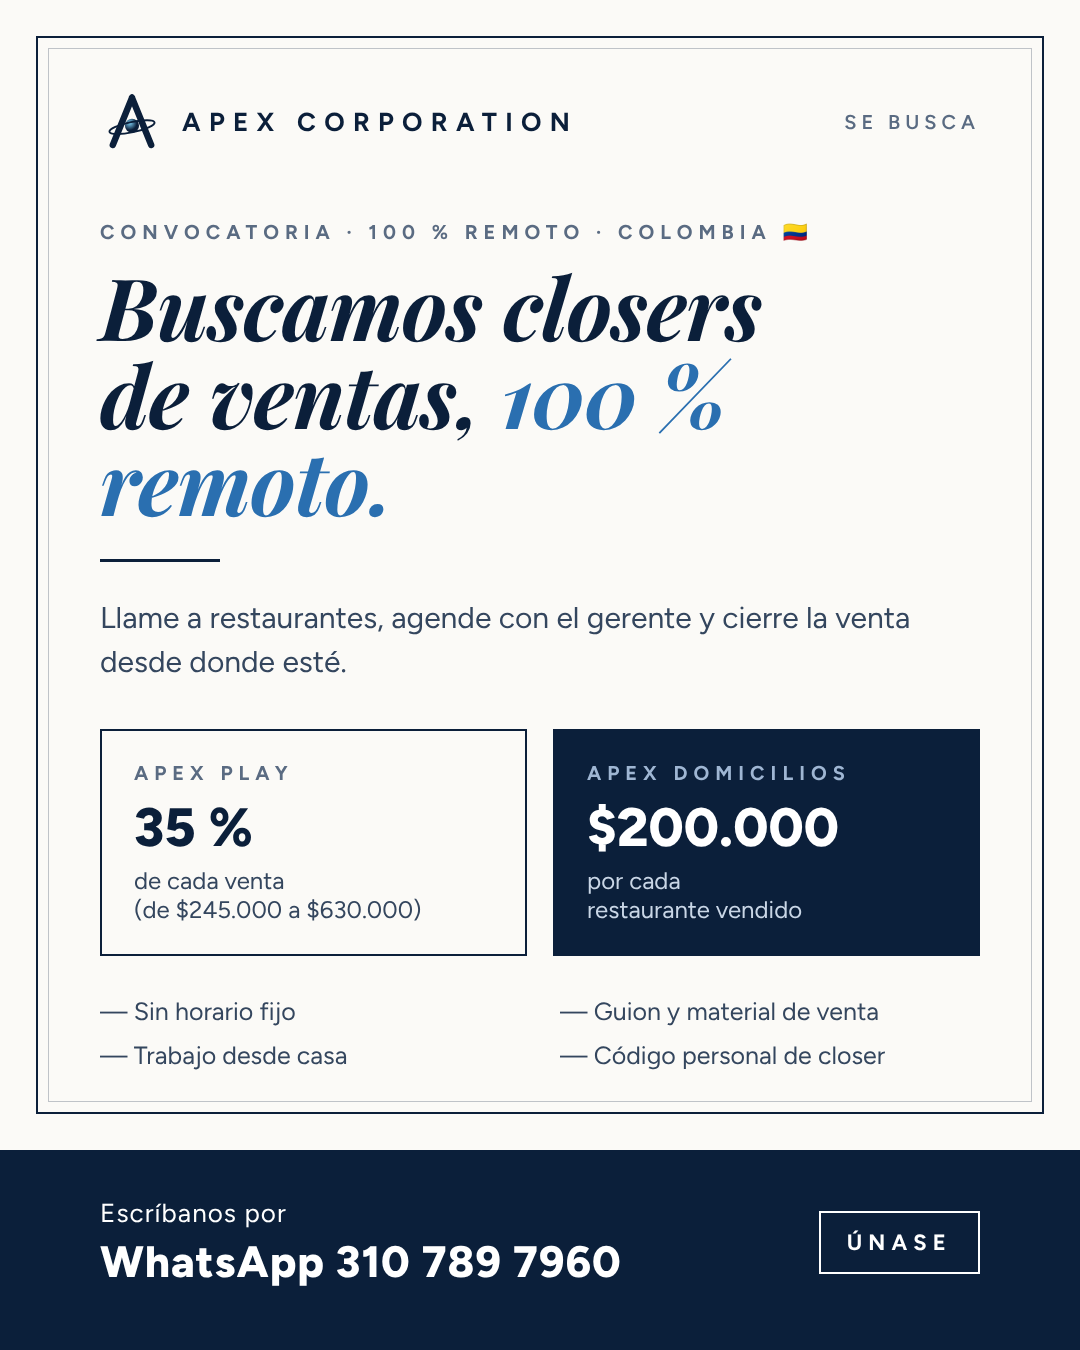
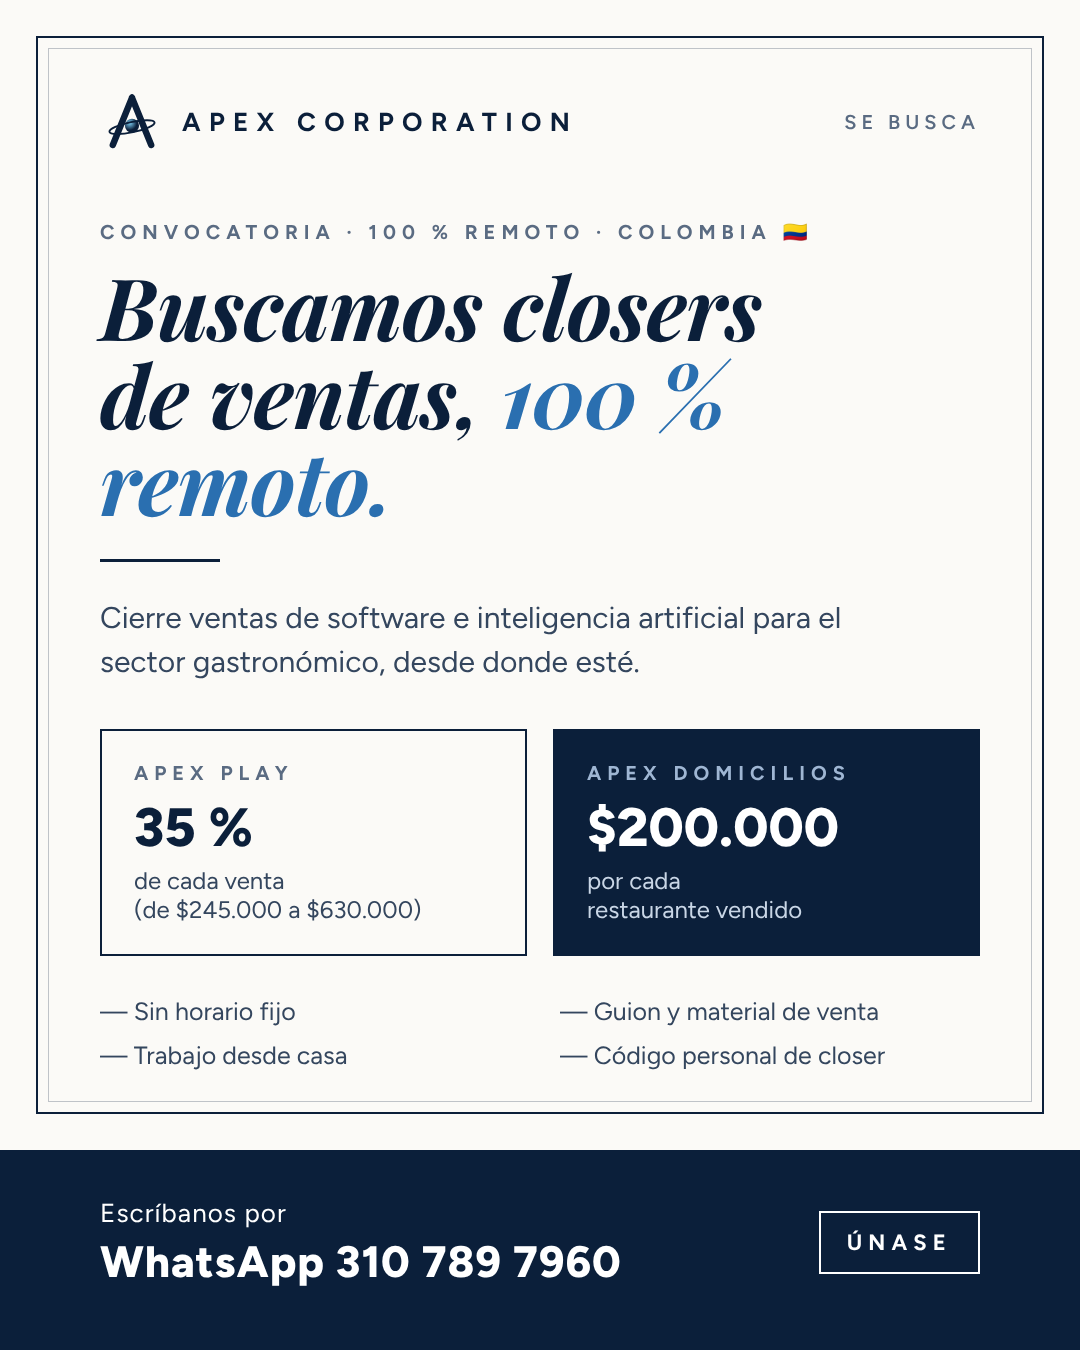
Closers: texto de cierre de ventas de software e IA para el sector gastronómico
Claude-Session: https://claude.ai/code/session_01Pcgrj9bEyTxcRDycAFVu2Q

Changed region(s): [[0.0917, 0.4356, 0.8556, 0.4978]]

diff --git a/produccion/redes/piezas/hacer.py b/produccion/redes/piezas/hacer.py
@@ -57,7 +57,7 @@ redes = pagina('''<div style="position:absolute;top:220px;left:100px;right:100px
 closer = pagina('''<div style="position:absolute;top:220px;left:100px;right:100px">
   <div class="et">CONVOCATORIA · 100 % REMOTO · COLOMBIA 🇨🇴</div>
   <h1>Buscamos closers<br>de ventas, <em>100 %<br>remoto.</em></h1><div class="linea"></div>
-  <p class="sub">Llame a restaurantes, agende con el gerente y cierre la venta desde donde esté.</p>
+  <p class="sub">Cierre ventas de software e inteligencia artificial para el sector gastronómico, desde donde esté.</p>
   <div style="display:grid;grid-template-columns:1fr 1fr;gap:26px;margin-top:46px">
     <div style="border:2px solid #0b1f3a;padding:30px 32px"><div class="et" style="margin-bottom:10px">APEX PLAY</div><div style="font:800 54px Figtree">35 %</div><div style="font-size:24px;color:#34465e;margin-top:6px">de cada venta<br>(de $245.000 a $630.000)</div></div>
     <div style="border:2px solid #0b1f3a;padding:30px 32px;background:#0b1f3a;color:#fff"><div class="et" style="margin-bottom:10px;color:#9fb6d3">APEX DOMICILIOS</div><div style="font:800 54px Figtree">$200.000</div><div style="font-size:24px;color:#c9d6e6;margin-top:6px">por cada<br>restaurante vendido</div></div>
@@ -69,7 +69,7 @@ closer = pagina('''<div style="position:absolute;top:220px;left:100px;right:100p
 closer_li = pagina('''<div style="position:absolute;top:220px;left:100px;right:100px">
   <div class="et">CONVOCATORIA · 100 % REMOTO · COLOMBIA 🇨🇴</div>
   <h1>Buscamos closers<br>de ventas, <em>100 %<br>remoto.</em></h1><div class="linea"></div>
-  <p class="sub">Llame a restaurantes, agende con el gerente y cierre la venta desde donde esté.</p>
+  <p class="sub">Cierre ventas de software e inteligencia artificial para el sector gastronómico, desde donde esté.</p>
   <div style="display:grid;grid-template-columns:1fr 1fr;gap:26px;margin-top:46px">
     <div style="border:2px solid #0b1f3a;padding:30px 32px"><div class="et" style="margin-bottom:10px">APEX PLAY</div><div style="font:800 54px Figtree">35 %</div><div style="font-size:24px;color:#34465e;margin-top:6px">de cada venta<br>(de $245.000 a $630.000)</div></div>
     <div style="border:2px solid #0b1f3a;padding:30px 32px;background:#0b1f3a;color:#fff"><div class="et" style="margin-bottom:10px;color:#9fb6d3">APEX DOMICILIOS</div><div style="font:800 54px Figtree">$200.000</div><div style="font-size:24px;color:#c9d6e6;margin-top:6px">por cada<br>restaurante vendido</div></div>
@@ -82,7 +82,7 @@ closer_li = closer_li.replace(LOGO.format(t=64), '<svg viewBox="0 0 100 100" wid
 closer_wa = pagina('''<div style="position:absolute;top:220px;left:100px;right:100px">
   <div class="et">CONVOCATORIA · 100 % REMOTO · COLOMBIA 🇨🇴</div>
   <h1>Buscamos closers<br>de ventas, <em>100 %<br>remoto.</em></h1><div class="linea"></div>
-  <p class="sub">Llame a restaurantes, agende con el gerente y cierre la venta desde donde esté.</p>
+  <p class="sub">Cierre ventas de software e inteligencia artificial para el sector gastronómico, desde donde esté.</p>
   <div style="display:grid;grid-template-columns:1fr 1fr;gap:26px;margin-top:46px">
     <div style="border:2px solid #0b1f3a;padding:30px 32px"><div class="et" style="margin-bottom:10px">APEX PLAY</div><div style="font:800 54px Figtree">35 %</div><div style="font-size:24px;color:#34465e;margin-top:6px">de cada venta<br>(de $245.000 a $630.000)</div></div>
     <div style="border:2px solid #0b1f3a;padding:30px 32px;background:#0b1f3a;color:#fff"><div class="et" style="margin-bottom:10px;color:#9fb6d3">APEX DOMICILIOS</div><div style="font:800 54px Figtree">$200.000</div><div style="font-size:24px;color:#c9d6e6;margin-top:6px">por cada<br>restaurante vendido</div></div>
